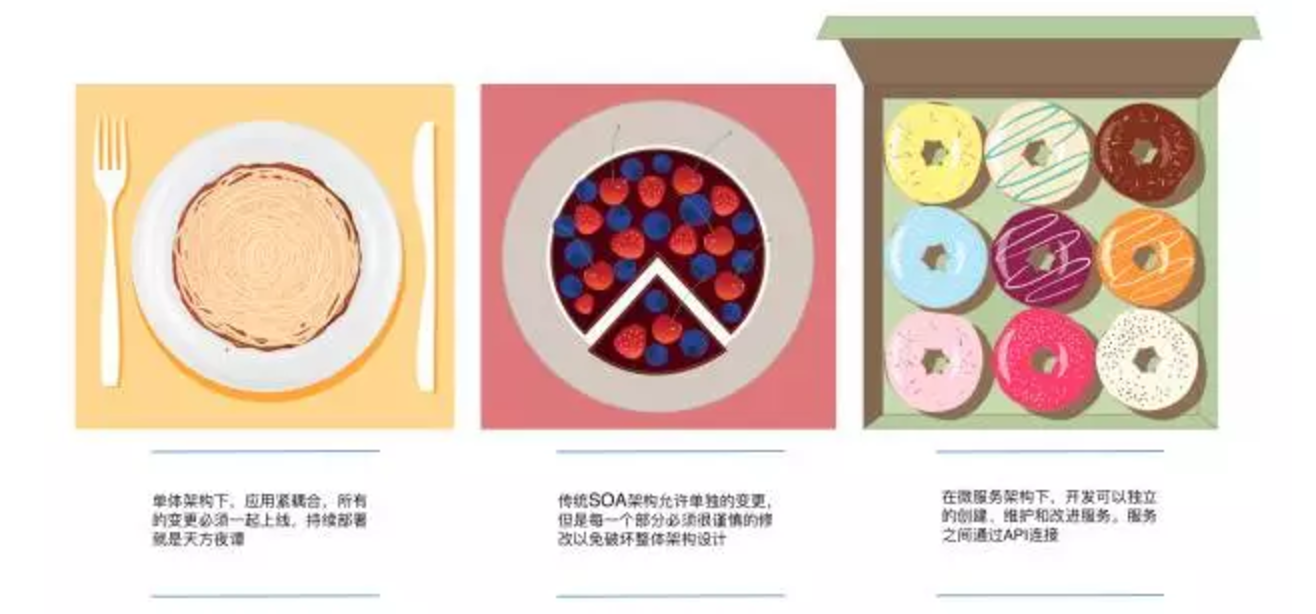
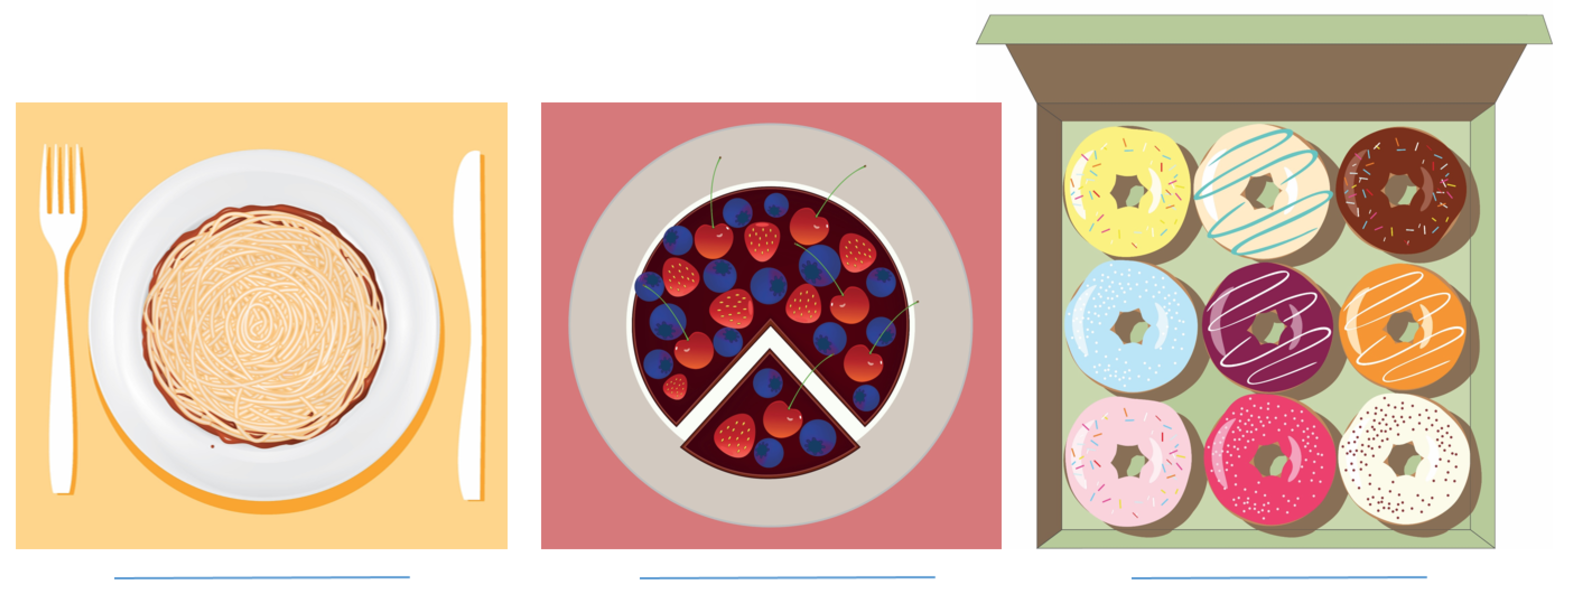
update

diff --git a/source/_posts/my-post3.md b/source/_posts/my-post3.md
@@ -20,6 +20,10 @@ categories:
 ## 微服务架构
 
 ![first](../../../../uploads/first.png)
+>上图从左到右说明
+>`左：单体架构下，应用紧耦合，所有的变更必须一起上线，持续部署就是天方夜谭。`
+>`中：传统SOA架构允许单独的变更，但是每一个部分必须很谨慎地修改以免破坏整体架构设计。`
+>`右：在微服务架构下，开发可以独立地创建、维护和改进服务。服务之间通过API连接。`
 
 首先，确切地说，当谈到微服务时，我们实际上是指微服务架构。这是一种独特的架构设计模式，它将是软件、web或移动应用拆分为一系列独立的服务——如微服务。这些服务仅用于某一个特定的业务功能，例如：用户管理、用户角色、电子商务购物车、搜索引擎、社交媒体登录等。此外，它们是相互独立的，这意味着它们可以采用不同的编程语言和数据存储。微服务中几乎不存在集中管理，它使用轻量级的HTTP、REST或Thrift API来进行内部通信。
 
